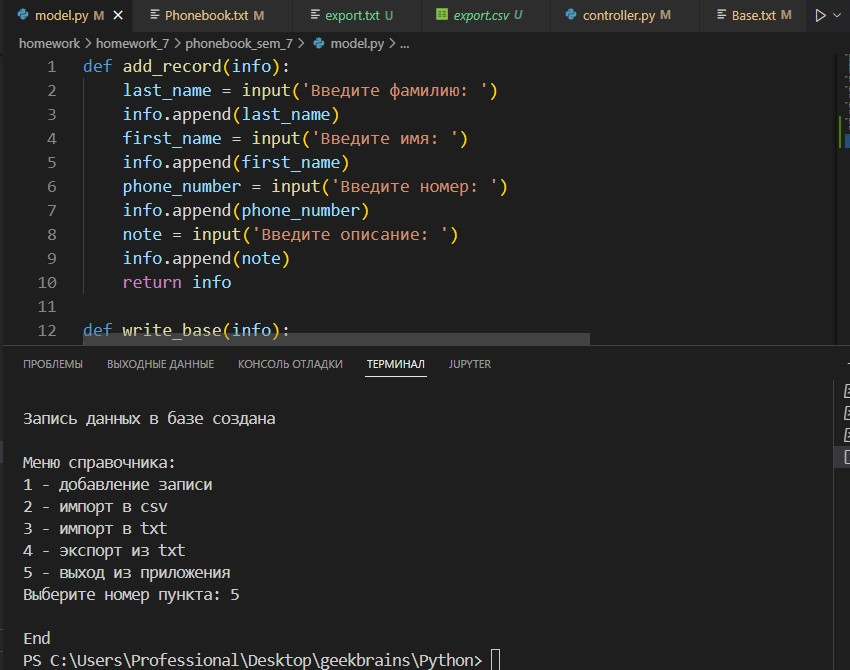
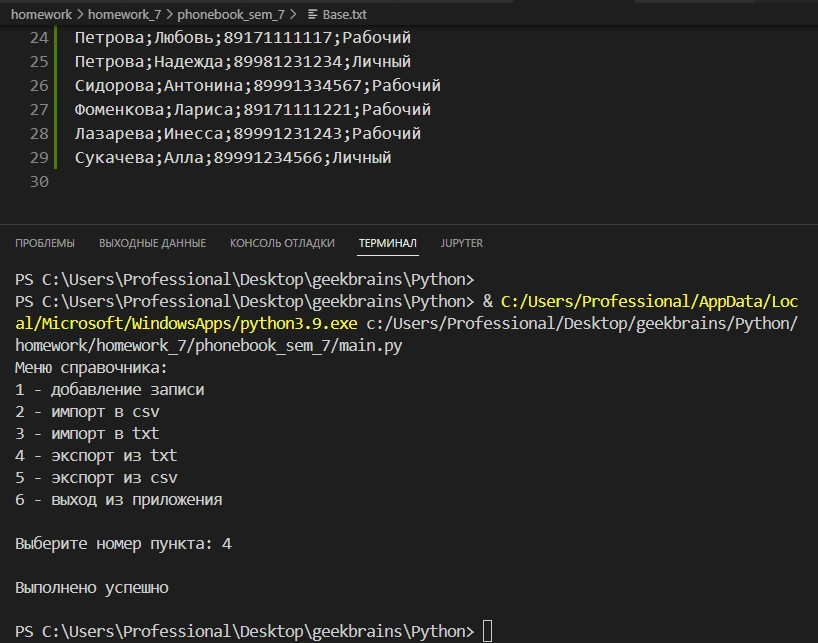
hw7 export.csv

diff --git a/homework/homework_7/phonebook_sem_7/model.py b/homework/homework_7/phonebook_sem_7/model.py
@@ -38,10 +38,21 @@ def export_txt():
     with open (base, 'a', encoding='utf-8') as base:
         base.writelines(all)
 
-# def export_csv():
-#     file = 'C:/Users/Professional/Desktop/geekbrains/Python/homework/homework_7/phonebook_sem_7/export.csv'
-#     with open (file, 'r', encoding='utf-8') as data:
-#         all = data.readlines()
-#     base = 'C:/Users/Professional/Desktop/geekbrains/Python/homework/homework_7/phonebook_sem_7/Base.txt'
-#     with open (base, 'a', encoding='utf-8') as base:
-#         base.writelines(all)
+def export_csv():
+    export_csv = 'C:/Users/Professional/Desktop/geekbrains/Python/homework/homework_7/phonebook_sem_7/export.csv'
+    with open (export_csv, 'r', encoding='utf-8') as file:
+        data = []
+        t = []
+        for line in file:      
+            if line != '':
+                if line != '\n':
+                    t.append(line.strip())
+                else:
+                    data.append(t)
+                    t= []
+    file = 'C:/Users/Professional/Desktop/geekbrains/Python/homework/homework_7/phonebook_sem_7/Base.txt'    
+    with open (file, 'a', encoding='utf-8') as base:
+        for i in data:
+            temp = ';'.join(i)
+            print(temp)
+            base.write(f'{temp}\n')

diff --git a/homework/homework_7/phonebook_sem_7/controller.py b/homework/homework_7/phonebook_sem_7/controller.py
@@ -8,20 +8,19 @@ def button_click():
         model.add_record(info)
         model.write_base(info)
         view.print_add(info)
-        button_click()
     elif ch == 2:
         model.import_scv()
         view.success()
-        button_click()
     elif ch == 3:
         model.import_txt()
         view.success()
-        button_click()
     elif ch == 4:
         model.export_txt()
         view.success()
-        button_click()
     elif ch == 5:
+        model.export_csv()
+        view.success()
+    elif ch == 6:
         print('\nEnd')
     else:
         print('\nОшибка, такого пункта меню нет')

diff --git a/homework/homework_7/phonebook_sem_7/view.py b/homework/homework_7/phonebook_sem_7/view.py
@@ -5,7 +5,8 @@ def print_hello():
         '2 - импорт в csv \n'
         '3 - импорт в txt\n'
         '4 - экспорт из txt\n'
-        '5 - выход из приложения'
+        '5 - экспорт из csv\n'
+        '6 - выход из приложения\n'
         )
     return int(input('Выберите номер пункта: '))
 
